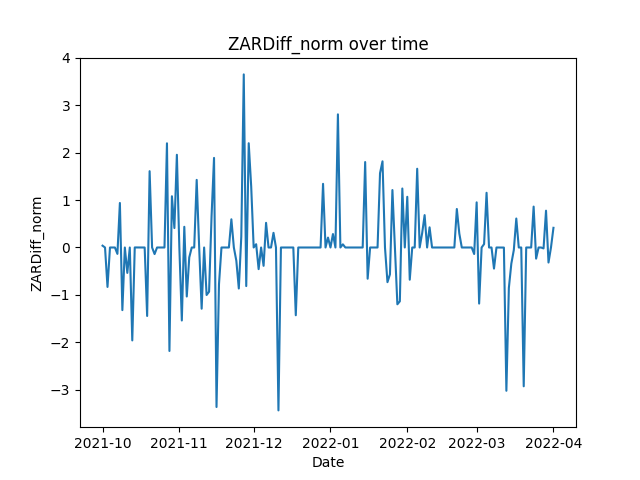
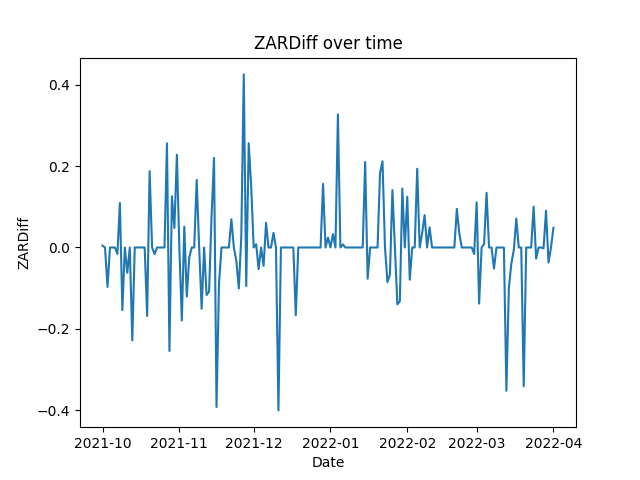
More progress

diff --git a/Scripts/Descriptive_Statistics.py b/Scripts/Descriptive_Statistics.py
@@ -1,10 +1,11 @@
 import pandas as pd
 import numpy as np
-from Std_fin_ts_data_setup import create_lags, create_moving_average, set_time_period, normalize\
+from Std_fin_ts_data_setup import create_lags, create_moving_average, set_time_period\
     ,trim_outliers, Y_cat_format, plotOverTime, get_difference, trim_middle
 import matplotlib.pyplot as plt
 from sklearn.metrics import confusion_matrix
 from sklearn.linear_model import LinearRegression
+from Shrinkage_methods import Shrinkage_Methods
 
 SOLZAR = pd.read_csv('/Users/pablo/Desktop/Masters/Data_Science/19119461_Data_Science_Project/Data/VALR/SOLZAR.csv')
 ETHZAR = pd.read_csv('/Users/pablo/Desktop/Masters/Data_Science/19119461_Data_Science_Project/Data/VALR/ETHZAR.csv')
@@ -95,13 +96,12 @@ def categorical_heat_map(mixedDf,var1,var2,savepath):
 
     return plt
 
-def setup_and_graph_fiat(USDdf,ZARdf,openDate,closeDate,normMethod,diffSavePath,unDiffSavePath):
+def setup_and_graph_fiat(USDdf,ZARdf,openDate,closeDate,diffSavePath,unDiffSavePath):
 
     ZARdf = set_time_period(ZARdf, 'Timestamp', openDate, closeDate)
 
     ZARdf = get_difference(ZARdf,'Timestamp','Close','ZAR')
     ZARdf['ZARVolume'] = ZARdf['Volume']
-    ZARdf = normalize(normMethod,ZARdf, 'ZARDiff')
 
 
     ZAR_vs_time = plotOverTime(ZARdf.tail(263520),'Close')
@@ -112,18 +112,12 @@ def setup_and_graph_fiat(USDdf,ZARdf,openDate,closeDate,normMethod,diffSavePath,
     ZARDiff_vs_time.savefig(diffSavePath)
     ZARDiff_vs_time.show()
 
-    ZARDiff_vs_time = plotOverTime(ZARdf.tail(263520),'ZARDiff_norm')
-    ZARDiff_vs_time.savefig(diffSavePath)
-    ZARDiff_vs_time.show()
-
-
-
     ZARdf = create_moving_average(ZARdf, 'Timestamp', 'ZARDiff', 100)
     ZARdf = create_lags(ZARdf, 'Timestamp', 'ZARDiff', [1, 2, 3, 4, 5])
 
     ZARdf = create_moving_average(ZARdf, 'Timestamp', 'ZARVolume', 5)
     ZARdf = create_moving_average(ZARdf, 'Timestamp', 'ZARDiff', 5)
-    ZARdf.drop(columns=['Open', 'High', 'Low', 'Close', 'Volume', 'Quote_Volume', 'Market'], inplace=True)
+    ZARdf.drop(columns=['Unnamed: 0','Open', 'High', 'Low', 'Close', 'Close_1', 'Volume','ZARVolume', 'Quote_Volume', 'Market'], inplace=True)
 
 
     USDdf = set_time_period(USDdf, 'Timestamp', openDate, closeDate)
@@ -133,14 +127,10 @@ def setup_and_graph_fiat(USDdf,ZARdf,openDate,closeDate,normMethod,diffSavePath,
     USDdf = create_moving_average(USDdf, 'Timestamp', 'USDDiff', 100)
     USDdf['USDVolume'] = USDdf['Volume']
     USDdf = create_moving_average(USDdf, 'Timestamp', 'USDVolume', 5)
-    USDdf.drop(columns=['Open', 'High', 'Low', 'Close', 'Volume', 'Trades'], inplace=True)
+    USDdf.drop(columns=['Unnamed: 0','Open', 'High', 'Low', 'Close', 'Close_1', 'Volume', 'Trades'], inplace=True)
 
     mixedDf = USDdf.merge(ZARdf, on='Timestamp')
     mixedDf = mixedDf.dropna(how='any')
-
-    mixedDf = normalize(normMethod,mixedDf, 'ZARDiff')
-    mixedDf = normalize(normMethod,mixedDf, 'USDDiff')
-    mixedDf = create_lags(mixedDf, 'Timestamp', 'USDDiff_norm', [1, 2])
 
     #categorize ZARDiff, USDDiff and USDDiff_1 - then plot USDDiffs against ZARDiffs
 
@@ -149,12 +139,12 @@ def setup_and_graph_fiat(USDdf,ZARdf,openDate,closeDate,normMethod,diffSavePath,
     mixedDf['USDDiff_1_cat'] =  Y_cat_format(mixedDf, 'USDDiff_1', False)
     mixedDf['USDDiff_2_cat'] =  Y_cat_format(mixedDf, 'USDDiff_2', False)
 
-    ax = mixedDf['ZARDiff_norm'].plot.hist(bins=60, alpha=0.9)
+
+    ax = mixedDf['ZARDiff'].plot.hist(bins=60, alpha=0.9)
     ax.plot()
     plt.show()
 
-    mixedDf['ZARDiff_norm_non-Binary'] = Y_cat_format(mixedDf, 'ZARDiff_norm', False)
-    ax2 = mixedDf['ZARDiff_norm_non-Binary'].plot.hist(bins=8, alpha=0.9)
+    ax2 = mixedDf['ZARDiff_cat'].plot.hist(bins=8, alpha=0.9)
     ax2.plot()
     plt.show()
 
@@ -162,7 +152,7 @@ def setup_and_graph_fiat(USDdf,ZARdf,openDate,closeDate,normMethod,diffSavePath,
 
 imageFolderPath = '/Users/pablo/Desktop/Masters/Data_Science/19119461_Data_Science_Project/Images'
 
-BTCFiat = setup_and_graph_fiat(BTCUSD,BTCZAR,'2020-01-01','2022-04-01','NormDist',diffSavePath=f'{imageFolderPath}/BTC_ZAR_Diff_vs_time.png'
+BTCFiat = setup_and_graph_fiat(BTCUSD,BTCZAR,'2020-01-01','2022-04-01',diffSavePath=f'{imageFolderPath}/BTC_ZAR_Diff_vs_time.png'
                                ,unDiffSavePath=f'{imageFolderPath}/BTC_ZAR_vs_time.png')
 
 categorical_heat_map(BTCFiat,'ZARDiff_cat','USDDiff_cat',f'{imageFolderPath}/HMap_ZAR_vs_USD.png')
@@ -174,6 +164,23 @@ reg_and_scatter_plot(BTCFiat,'USDDiff','ZARDiff',f'{imageFolderPath}/Scatter_ZAR
 reg_and_scatter_plot(BTCFiat,'USDDiff_1','ZARDiff',f'{imageFolderPath}/Scatter_ZAR_vs_USD_1')
 reg_and_scatter_plot(BTCFiat,'USDDiff_1','USDDiff',f'{imageFolderPath}/Scatter_USD_vs_USD_1')
 reg_and_scatter_plot(BTCFiat,'USDDiff_2','ZARDiff',f'{imageFolderPath}/Scatter_ZAR_vs_USD_2')
+
+allVars = BTCFiat.columns
+
+for i in allVars:
+    print(i)
+
+ElasticNetDf = BTCFiat.drop(columns=['USDDiff','Timestamp'])
+ENVars = ElasticNetDf.columns
+
+test1 = Shrinkage_Methods(ElasticNetDf,list(ENVars),'ZARDiff',5)
+test1.Elastic_Gridsearch(0.05,show_coefficients=True,figSavePath='/Users/pablo/Desktop/Masters/Data_Science/19119461_Data_Science_Project/Images/ElsaticGrid_1')
+
+
+
+test2Vars = ['USDVolume_MA_5_1','ZARDiff_2','ZARDiff_MA_100_1','ZARDiff_1','USDDiff_1','USDDiff_2','ZARVolume_1','ZARVolume_MA_5_1']
+test2 = Shrinkage_Methods(ElasticNetDf,test2Vars,'ZARDiff',5)
+test2.Elastic_Gridsearch(0.01,show_coefficients=True,figSavePath='/Users/pablo/Desktop/Masters/Data_Science/19119461_Data_Science_Project/Images/ElsaticGrid_2')
 
 
 

diff --git a/Scripts/Shrinkage_methods.py b/Scripts/Shrinkage_methods.py
@@ -1,0 +1,93 @@
+import pandas as pd
+from sklearn.linear_model import ElasticNet, Lasso, Ridge
+import numpy as np
+from matplotlib import pyplot as plt
+import seaborn as sns
+
+class Shrinkage_Methods:
+
+    def __init__(self, data:pd.DataFrame, X_variables: list[str],Y_variable: str,  num_features: int=10 ):
+        data.dropna(inplace=True)
+        self.Y_variable = data[Y_variable]
+        self.X_variables = data[X_variables]
+
+        if Y_variable in X_variables:
+            self.X_variables.drop(columns=[Y_variable],inplace=True)
+
+        self.num_features = num_features
+
+
+    def run_ElasticNet(self):
+
+        regr = ElasticNet(alpha=self.alpha,random_state=42, l1_ratio=0.5)
+        regr.fit(self.X_variables,self.Y_variable)
+
+        coef_df = pd.DataFrame({'var':self.X_variables.columns,'coef':regr.coef_,'coef_abs':np.abs(regr.coef_)})
+        coef_df.sort_values(by='coef_abs')
+
+        print(coef_df.head(self.num_features))
+
+        return regr
+
+    def run_Lasso(self):
+        regr = Lasso(alpha=self.alpha,random_state=42)
+        regr.fit(self.X_variables,self.Y_variable)
+
+        if len(self.X_variables.columns) > 20:
+            print(f"Max coefficient: {max(regr.coef_)}\n"
+                  f"Average coefficient: {np.mean(regr.coef_)}")
+
+        else:
+            for i in range(len(regr.coef_)):
+                print(f"{self.X_variables.columns[i]} : {regr.coef_[i]}")
+
+        return regr
+
+    def run_Ridge(self):
+        regr = Ridge(alpha=self.alpha,random_state=42)
+        regr.fit(self.X_variables,self.Y_variable)
+
+        if len(self.X_variables.columns) > 20:
+            print(f"Max coefficient: {max(regr.coef_[0])}\n"
+                  f"Average coefficient: {np.mean(regr.coef_[0])}")
+        else:
+
+            for i in range(len(self.X_variables.columns)):
+                print(f"{self.X_variables.columns[i]} : {regr.coef_[0][i]}")
+
+
+        return regr
+
+    def Elastic_Gridsearch(self,l1_ratio,figSavePath:str,show_coefficients=False,minAlpha=0,maxAlpha=10):
+        l1_ratio = l1_ratio
+        alphas = range(100*minAlpha,100*maxAlpha,2)
+        alphas = [x/100 for x in alphas]
+        results_list = []
+
+        for i in alphas:
+            regr = ElasticNet(alpha=i, random_state=42, l1_ratio=l1_ratio,fit_intercept=False,selection='random')
+            regr.fit(self.X_variables, self.Y_variable)
+            results_list.append([np.log(i)] + regr.coef_.tolist())
+
+        colNames = ['alpha']
+        for i in self.X_variables.columns:
+            colNames.append(i)
+
+        results_df = pd.DataFrame(results_list,columns=colNames)
+        print(results_df.head(5))
+        colNames.pop(0)
+        long_results_df = pd.melt(results_df,id_vars='alpha',value_vars=colNames)
+
+        plt.title(f'L1_ratio:{l1_ratio}')
+        plt.xlabel('Log Alpha')
+        plt.ylabel('Coefficients')
+        sns.set_theme(style='darkgrid')
+        sns.lineplot(data = long_results_df,x='alpha', y='value',hue = 'variable', palette='colorblind')
+
+        plt.legend(list(self.X_variables.columns),loc='upper right')
+        plt.savefig(figSavePath)
+        plt.show()
+
+        if show_coefficients:
+            for i in results_df.columns:
+                print(f'\n{i}:{results_df.loc[0][i]}')

diff --git a/Scripts/Std_fin_ts_data_setup.py b/Scripts/Std_fin_ts_data_setup.py
@@ -3,7 +3,6 @@ import pandas as pd
 import pytz
 import matplotlib.pyplot as plt
 
-
 def Y_cat_format(df,YVar,binary:bool):
     Y_mean = np.mean(df[YVar])
 

diff --git a/README.md b/README.md
@@ -25,7 +25,7 @@ finally the results are discussed in the conclusion.
 
 ##2. Data Collection and Cleaning
 Data collection was done via email (and WeTransfer) on the VALR side and via download on the Kraken side. The VALR data was delivered as per minute pricing data describing the opening-price, high-price, low-price, close-price and volume per minute. This is known as the OHLC format. 
-No initial cleaning was needed for the VALR data. The VALR data was adjusted from the Pretoria, South Africa timezone to the UTC timezone in order to match the timezone of the Kraken data. 
+The VALR data was adjusted from the Pretoria, South Africa timezone to the UTC timezone in order to match the timezone of the Kraken data. No further cleaning was necessary for the VALR data.
 
 Kraken provides trade history for the Ethereum-USD (ETH-USD) market and pricing history per minute for the Bitcoin-USD (BTC-USD) market in this [Google Drive](https://drive.google.com/drive/folders/1jI3mZvrPbInNAEaIOoMbWvFfgRDZ44TT "Kraken Historical Data Google Drive").
 The ETH-USD trade history was converted into a per minute OHLC format by grouping the trades into minute long intervals and taking the opening trade price as the opening-price, the highest trade price as the high-price, the lowest trade price as the low-price, the final trade price as the closing-price
@@ -34,13 +34,17 @@ and the total volume of cryptocurrency traded as the volume.
 Because the aim of this project is to use the international market for Bitcoin and Ethereum to predict the South African market in order to augment algorithmic trading decisions - 
 the per minute OHCL data for both markets was differenced by its first lag. In particular, the closing prices were differenced and converted to a percentage. 
 One of the major benefits of differencing the data is that it centers it around zero. Please see Figures 1 and 2 for a comparison of the differenced and undifferenced 
-BTC-USD closing prices over time. Further, differencing (by percentage) the data brings the scale of the two markets together. Because of the ZAR/USD exchange rate (around R15 per USD) the ZAR-BTC and ZAR-ETH markets have nominal values around 15 times higher than the USD markets.
+BTC-USD closing prices over time. Further, differencing the data (by percentage) brings the scale of the two markets together. Because of the ZAR/USD exchange rate (around R15 per USD), the ZAR-BTC and ZAR-ETH markets have nominal values around 15 times higher than the USD markets.
 This is problematic if both ZAR lags and USD lags are included in the variables input into models that work with node weightings because it can bias the model towards variables with bigger scales (reference here). This problem is mitigated by the scaling inherent in differencing by percentage.
-After differencing, first 5 lags of the closing prices of both the ZAR and USD markets were taken. Similarly, a 100 period moving average and a 5 period moving average were taken for both markets. Note that the last inclusion in the moving averages is the first lag of the closing price.
+After differencing, the first 5 lags of the closing prices of both the ZAR and USD markets were taken. Similarly, a 100 period moving average and a 5 period moving average were taken for both markets. Note that the moving averages are also lagged by one period in order to avoid any data contamination.
 
 Finally, the differenced ZAR-BTC and USD-BTC variables were divided into 8 categories dependent on the number of standard deviations that a sample lies away from the mean. Please see Equation 1 for details.
 
-*Equation 1: Piecewise categorization of variables*
+![Figure 1](/Users/pablo/Desktop/Masters/Data_Science/19119461_Data_Science_Project/Images/BTC_ZAR_vs_time.png)  
+*Figure 1: BTC-ZAR over Time*
+
+![Figure 2](/Users/pablo/Desktop/Masters/Data_Science/19119461_Data_Science_Project/Images/BTC_ZAR_Diff_vs_time.png)  
+*Figure 2: Differenced BTC-ZAR over Time*  
 
 $$ Ycat=   \left\{
 \begin{array}{ll}
@@ -55,28 +59,20 @@ $$ Ycat=   \left\{
 \end{array} 
 \right.  
 $$
-
-
-
-![Figure 1](/Users/pablo/Desktop/Masters/Data_Science/19119461_Data_Science_Project/Images/BTC_ZAR_vs_time.png)  
-*Figure 1: BTC-ZAR over Time*
-
-![Figure 2](/Users/pablo/Desktop/Masters/Data_Science/19119461_Data_Science_Project/Images/BTC_ZAR_Diff_vs_time.png)  
-*Figure 2: Differenced BTC-ZAR over Time*  
+*Equation 1: Piecewise categorization of variables*
 
 ##Initial analysis
-Single linear (OLS) regression was used to test the hypothesis in the most basic way and a positive result was yielded. Regressing the unlagged BTC-ZAR variable on the unlagged BTC-USD variable reveals a strong positive relationship between the two - please see Figure 3.
-Next, regressing the unlagged BTC-ZAR variable on the  first lag of the BTC-USD market yields a weaker but comparable positive relationship - please see Figure 4. However, regressing the unlagged BTC-USD variable on the first lag of the BTC-USD market reveals a very weak positive relationship
-- please see Figure 5. Infact, even the second lag of the BTC-USD variable is a better predictor of the unlagged BTC-ZAR market than the first lag of the BTC-USD variable is for the BTC-USD market. Please see Table 1 for coefficients and R-Squared values. 
+Single linear (OLS) regression was used to test the hypothesis in the most basic way and yielded a positive result. Regressing the un-lagged BTC-ZAR variable on the un-lagged BTC-USD variable reveals a strong positive relationship between the two - please see Figure 3.
+Next, regressing the un-lagged BTC-ZAR variable on the  first lag of the BTC-USD market yields a weaker but comparable positive relationship - please see Figure 4. However, regressing the un-lagged BTC-USD variable on the first lag of the BTC-USD market reveals a very weak positive relationship
+- please see Figure 5. In fact, even the second lag of the BTC-USD variable is a better predictor of the un-lagged BTC-ZAR market than the first lag of the BTC-USD variable is for the BTC-USD market. Please see Table 1 for coefficients and R-Squared values. While it is clear that any linear relationship 
+between lags of the BTC-USD market and the un-lagged BTC-ZAR market is weak these results do suggest that the USD market leads the South African market at least in some way.
 
 |Regression|Coefficient|R-Squared|
 |----------|-----------|---------|
 |BTC-ZARDiff on BTC-USDDiff| 0,5 |0,17|
 |BTC-ZARDiff on BTC-USDDiff_1|0,26|0,05|
 |BTC-USDDiff on BTC-USDDiff_1|0,03|0,0008|
-
-
-
+|BTC-ZARDiff on BTC-USDDiff_2|0,08|0,004|
 
 ![Figure 3](/Users/pablo/Desktop/Masters/Data_Science/19119461_Data_Science_Project/Images/Scatter_ZAR_vs_USD.png)
 *Figure 3: Unlagged BTC-ZAR vs unlagged BTC-USD*  
@@ -90,6 +86,7 @@ Next, regressing the unlagged BTC-ZAR variable on the  first lag of the BTC-USD 
 *Figure 5: First lag of BTC-USD vs unlagged BTC-USD*  
 *R-squared: 0.0008  , Coefficient:0.03*
 
+Following these results, machine learning models were tested. The variables selected for 
 
 
 

diff --git a/Scripts/WriteUp.md b/Scripts/WriteUp.md
@@ -75,20 +75,27 @@ Next, regressing the unlagged BTC-ZAR variable on the  first lag of the BTC-USD 
 |BTC-ZARDiff on BTC-USDDiff_1|0,26|0,05|
 |BTC-USDDiff on BTC-USDDiff_1|0,03|0,0008|
 
-
-
-
 ![Figure 3](/Users/pablo/Desktop/Masters/Data_Science/19119461_Data_Science_Project/Images/Scatter_ZAR_vs_USD.png)
-*Figure 3: Unlagged BTC-ZAR vs unlagged BTC-USD*  
+*Figure 3: Un-lagged BTC-ZAR vs un-lagged BTC-USD*  
 *R-squared: 0.17  , Coefficient:0.5*
 
 ![Figure 4](/Users/pablo/Desktop/Masters/Data_Science/19119461_Data_Science_Project/Images/Scatter_ZAR_vs_USD_1.png)  
-*Figure 4: First lag of BTC-ZAR vs unlagged BTC-USD*  
+*Figure 4: First lag of BTC-ZAR vs un-lagged BTC-USD*  
 *R-squared: 0.05  , Coefficient:0.27*
 
 ![Figure 5](/Users/pablo/Desktop/Masters/Data_Science/19119461_Data_Science_Project/Images/Scatter_USD_vs_USD_1.png)  
-*Figure 5: First lag of BTC-USD vs unlagged BTC-USD*  
+*Figure 5: First lag of BTC-USD vs un-lagged BTC-USD*  
 *R-squared: 0.0008  , Coefficient:0.03*
+
+Running an elastic net regression with a lambda of 0.05 indicated that eight variables are prominent in the prediction of the un-lagged BTC-ZAR variable. Please see Figure 6. 
+A second elastic net regression, including only the eight variables yielded by the first elastic net regression, with a lambda value of 0.01 indicates the five most prominent variables to be 
+USDiff_1, ZARDiff_1, ZARVolume_1, USDDiff_2 and ZARDiff_2; in that order. Please see Figure 7.
+
+![Figure 6](/Users/pablo/Desktop/Masters/Data_Science/19119461_Data_Science_Project/Images/ElsaticGrid_1.png)  
+*Figure 6: Elastic net regression 1*  
+
+![Figure 7](/Users/pablo/Desktop/Masters/Data_Science/19119461_Data_Science_Project/Images/ElsaticGrid_2.png)  
+*Figure 7: Elastic net regression 2*  
 
 
 
